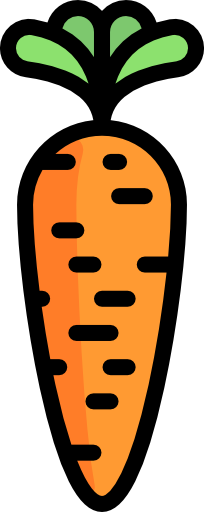
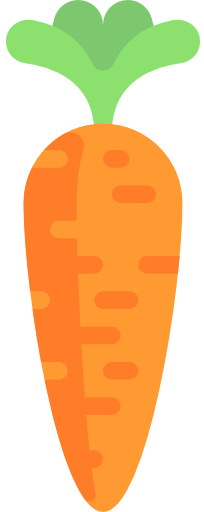
Complete Lab 3 sorting algorithms

diff --git a/Lab3/sorting_algorithms.py b/Lab3/sorting_algorithms.py
@@ -1,7 +1,8 @@
 """ 
 ENGR 221 Lab 3 - Sorting Algorithms
 Author: Huiwon Choi
-This file contains implementations of s0election sort, insertion sort, and bubble sort.
+Date: 2026-10-04
+This file contains implementations of selection sort, insertion sort, and bubble sort.
 """
 
 import random
@@ -180,7 +181,7 @@ class SortingAlgorithms:
         # get the time after running
         end_time = time.time()
 
-        # r eturn the difference
+        # return the difference
         return end_time - start_time
 
 
